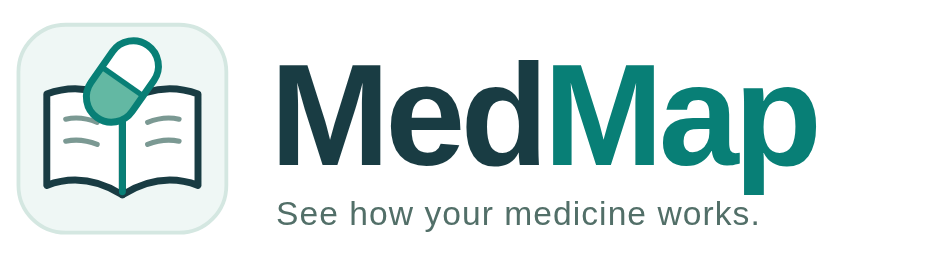
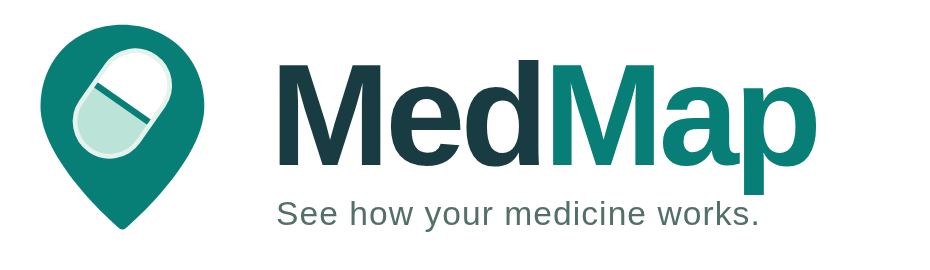
Simplify MedMap branding to a clinical pill-and-map-pin mark

Changed region(s): [[0.0, 0.0593, 0.2495, 0.8889]]

diff --git a/src/components/BrandLogo.tsx b/src/components/BrandLogo.tsx
@@ -1,4 +1,4 @@
-/** Original MedMap identity: an open clinical atlas with a capsule. */
+/** Original MedMap identity: a simple capsule inside a map pin. */
 export function BrandLogo() {
   return (
     <>

diff --git a/README.md b/README.md
@@ -40,7 +40,7 @@ The browser suite validates all 100 condition mappings, opens every one of the 9
 
 ## Brand assets
 
-MedMap’s clinical education logo combines an open medical atlas with a capsule, in navy, teal, and muted mint. The header and footer share `src/components/BrandLogo.tsx`; the icon also serves as the favicon.
+MedMap’s clinical education logo combines a simple map pin with a two-tone capsule, using flat teal, mint, and navy with a clean wordmark. The header and footer share `src/components/BrandLogo.tsx`; the icon also serves as the favicon.
 
 - `public/branding/medmap-mark.svg`: scalable, transparent icon.
 - `public/branding/medmap-logo.svg`: transparent full logo and tagline.
